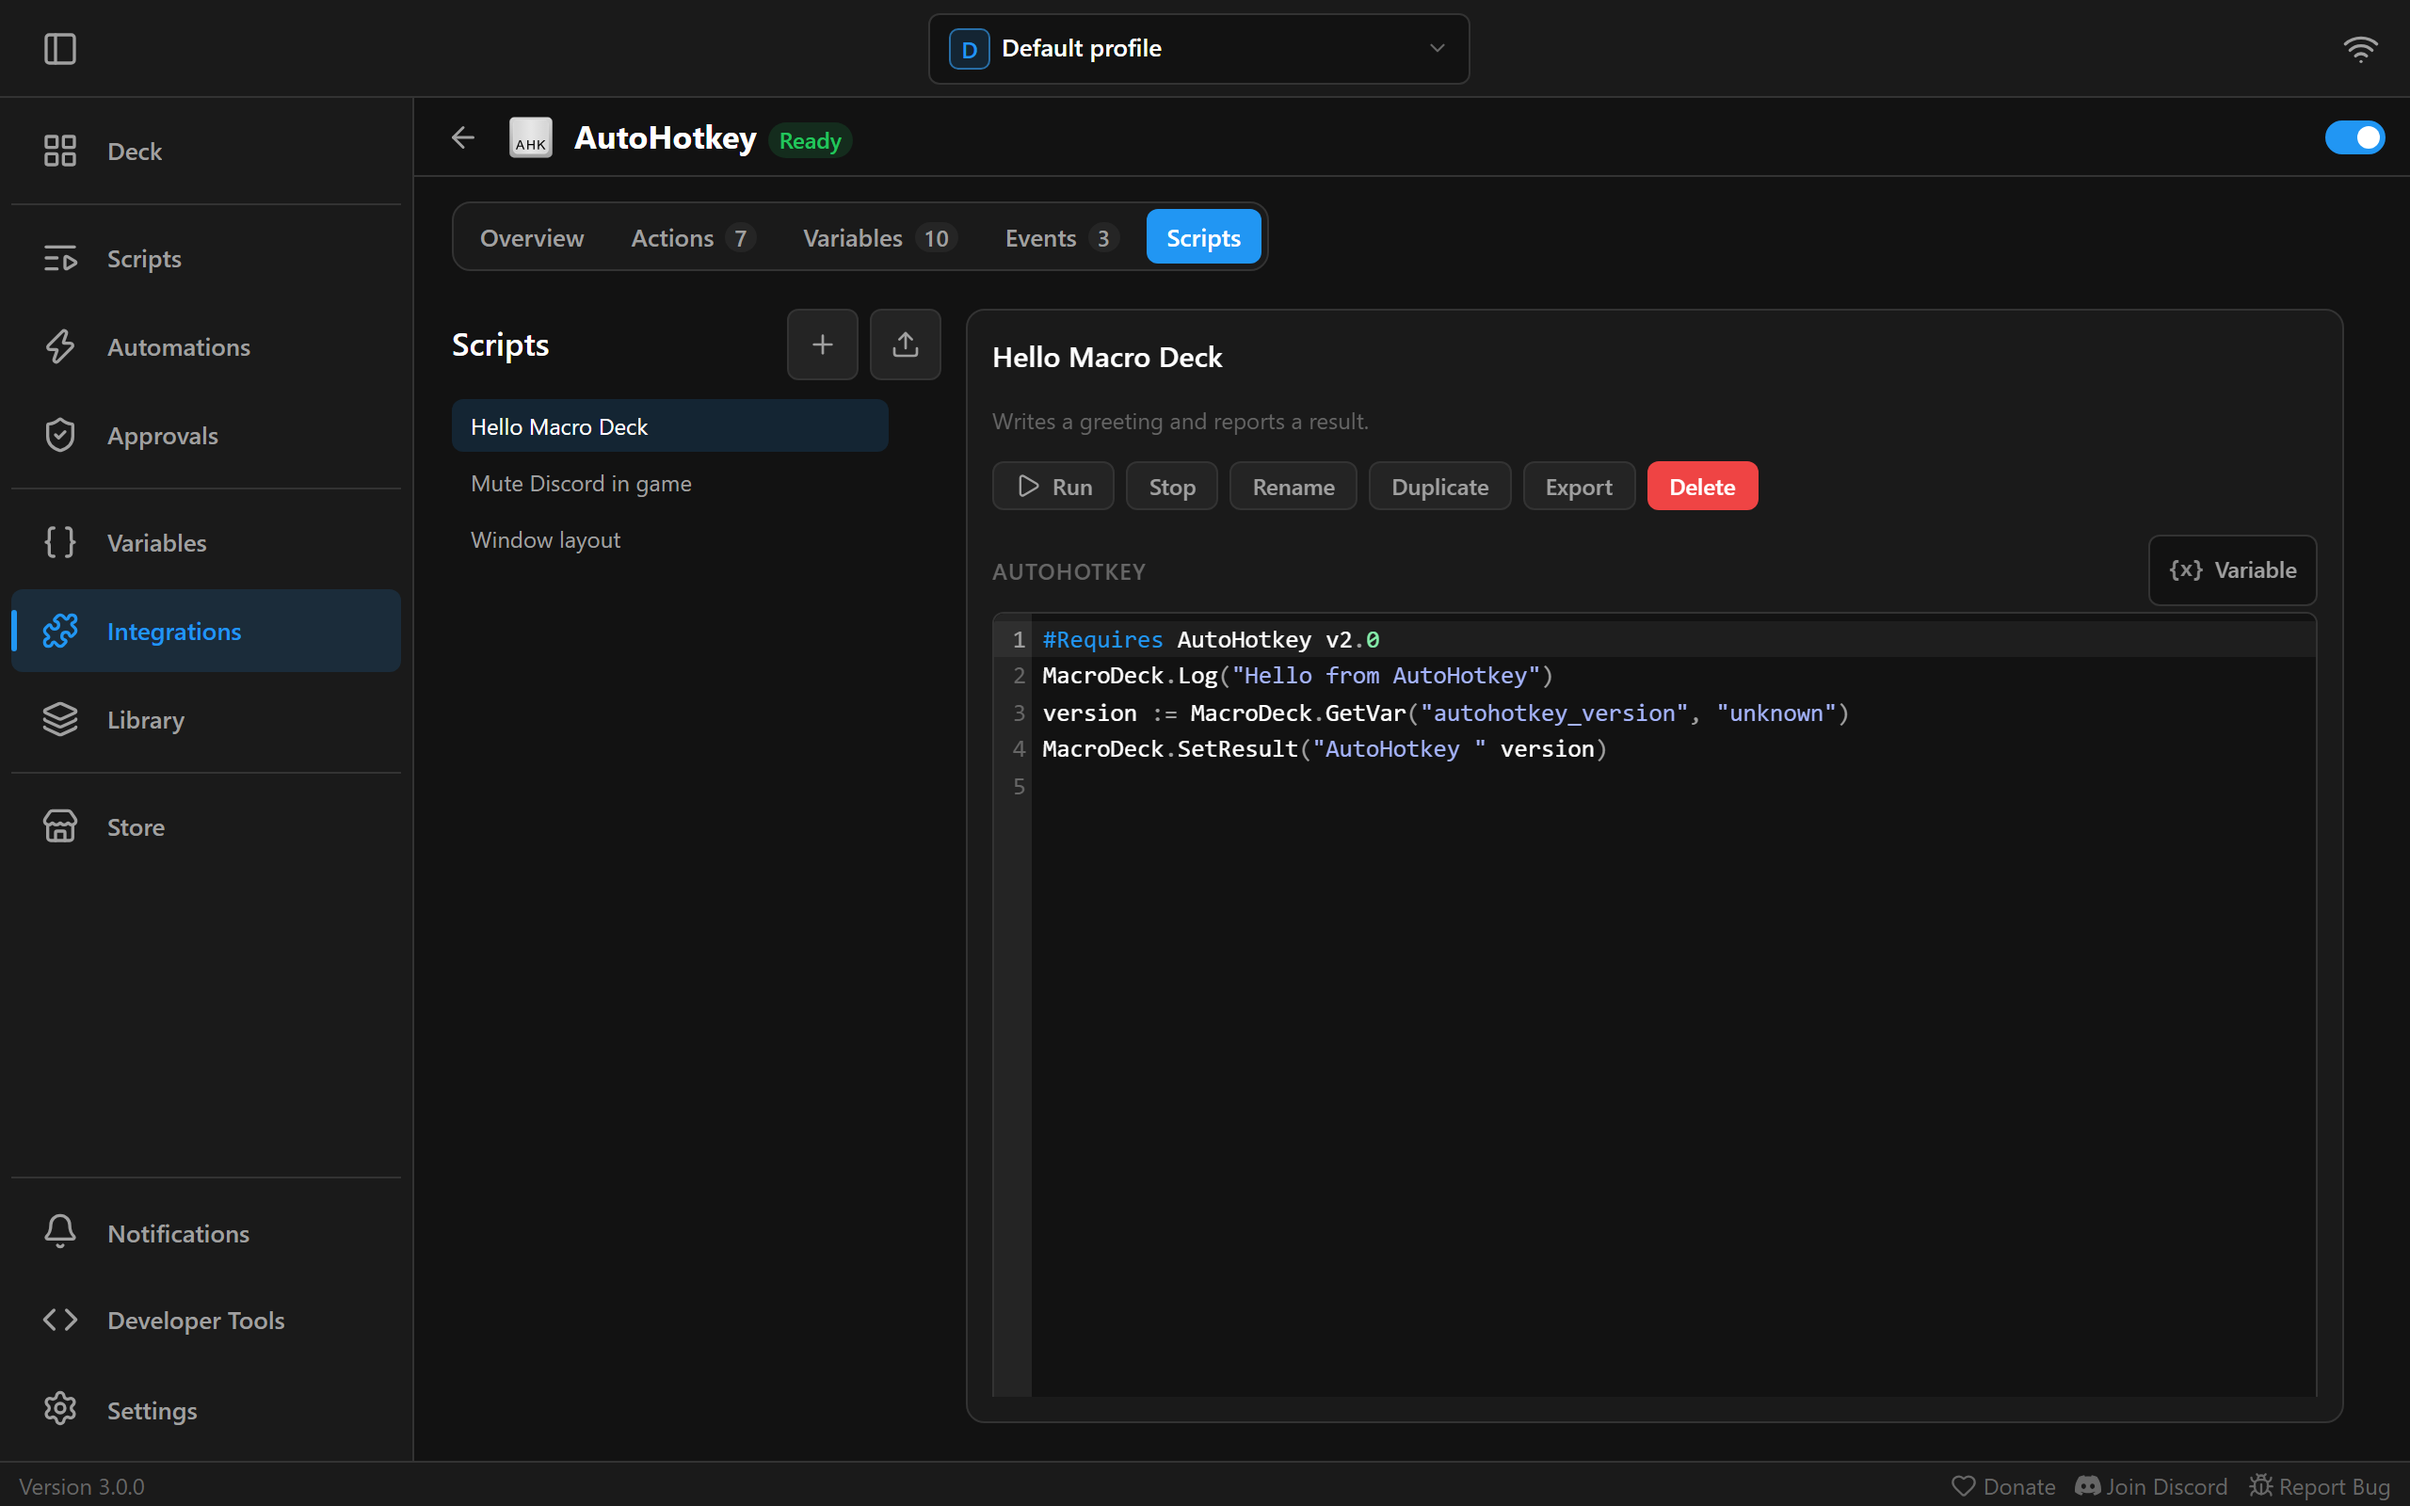
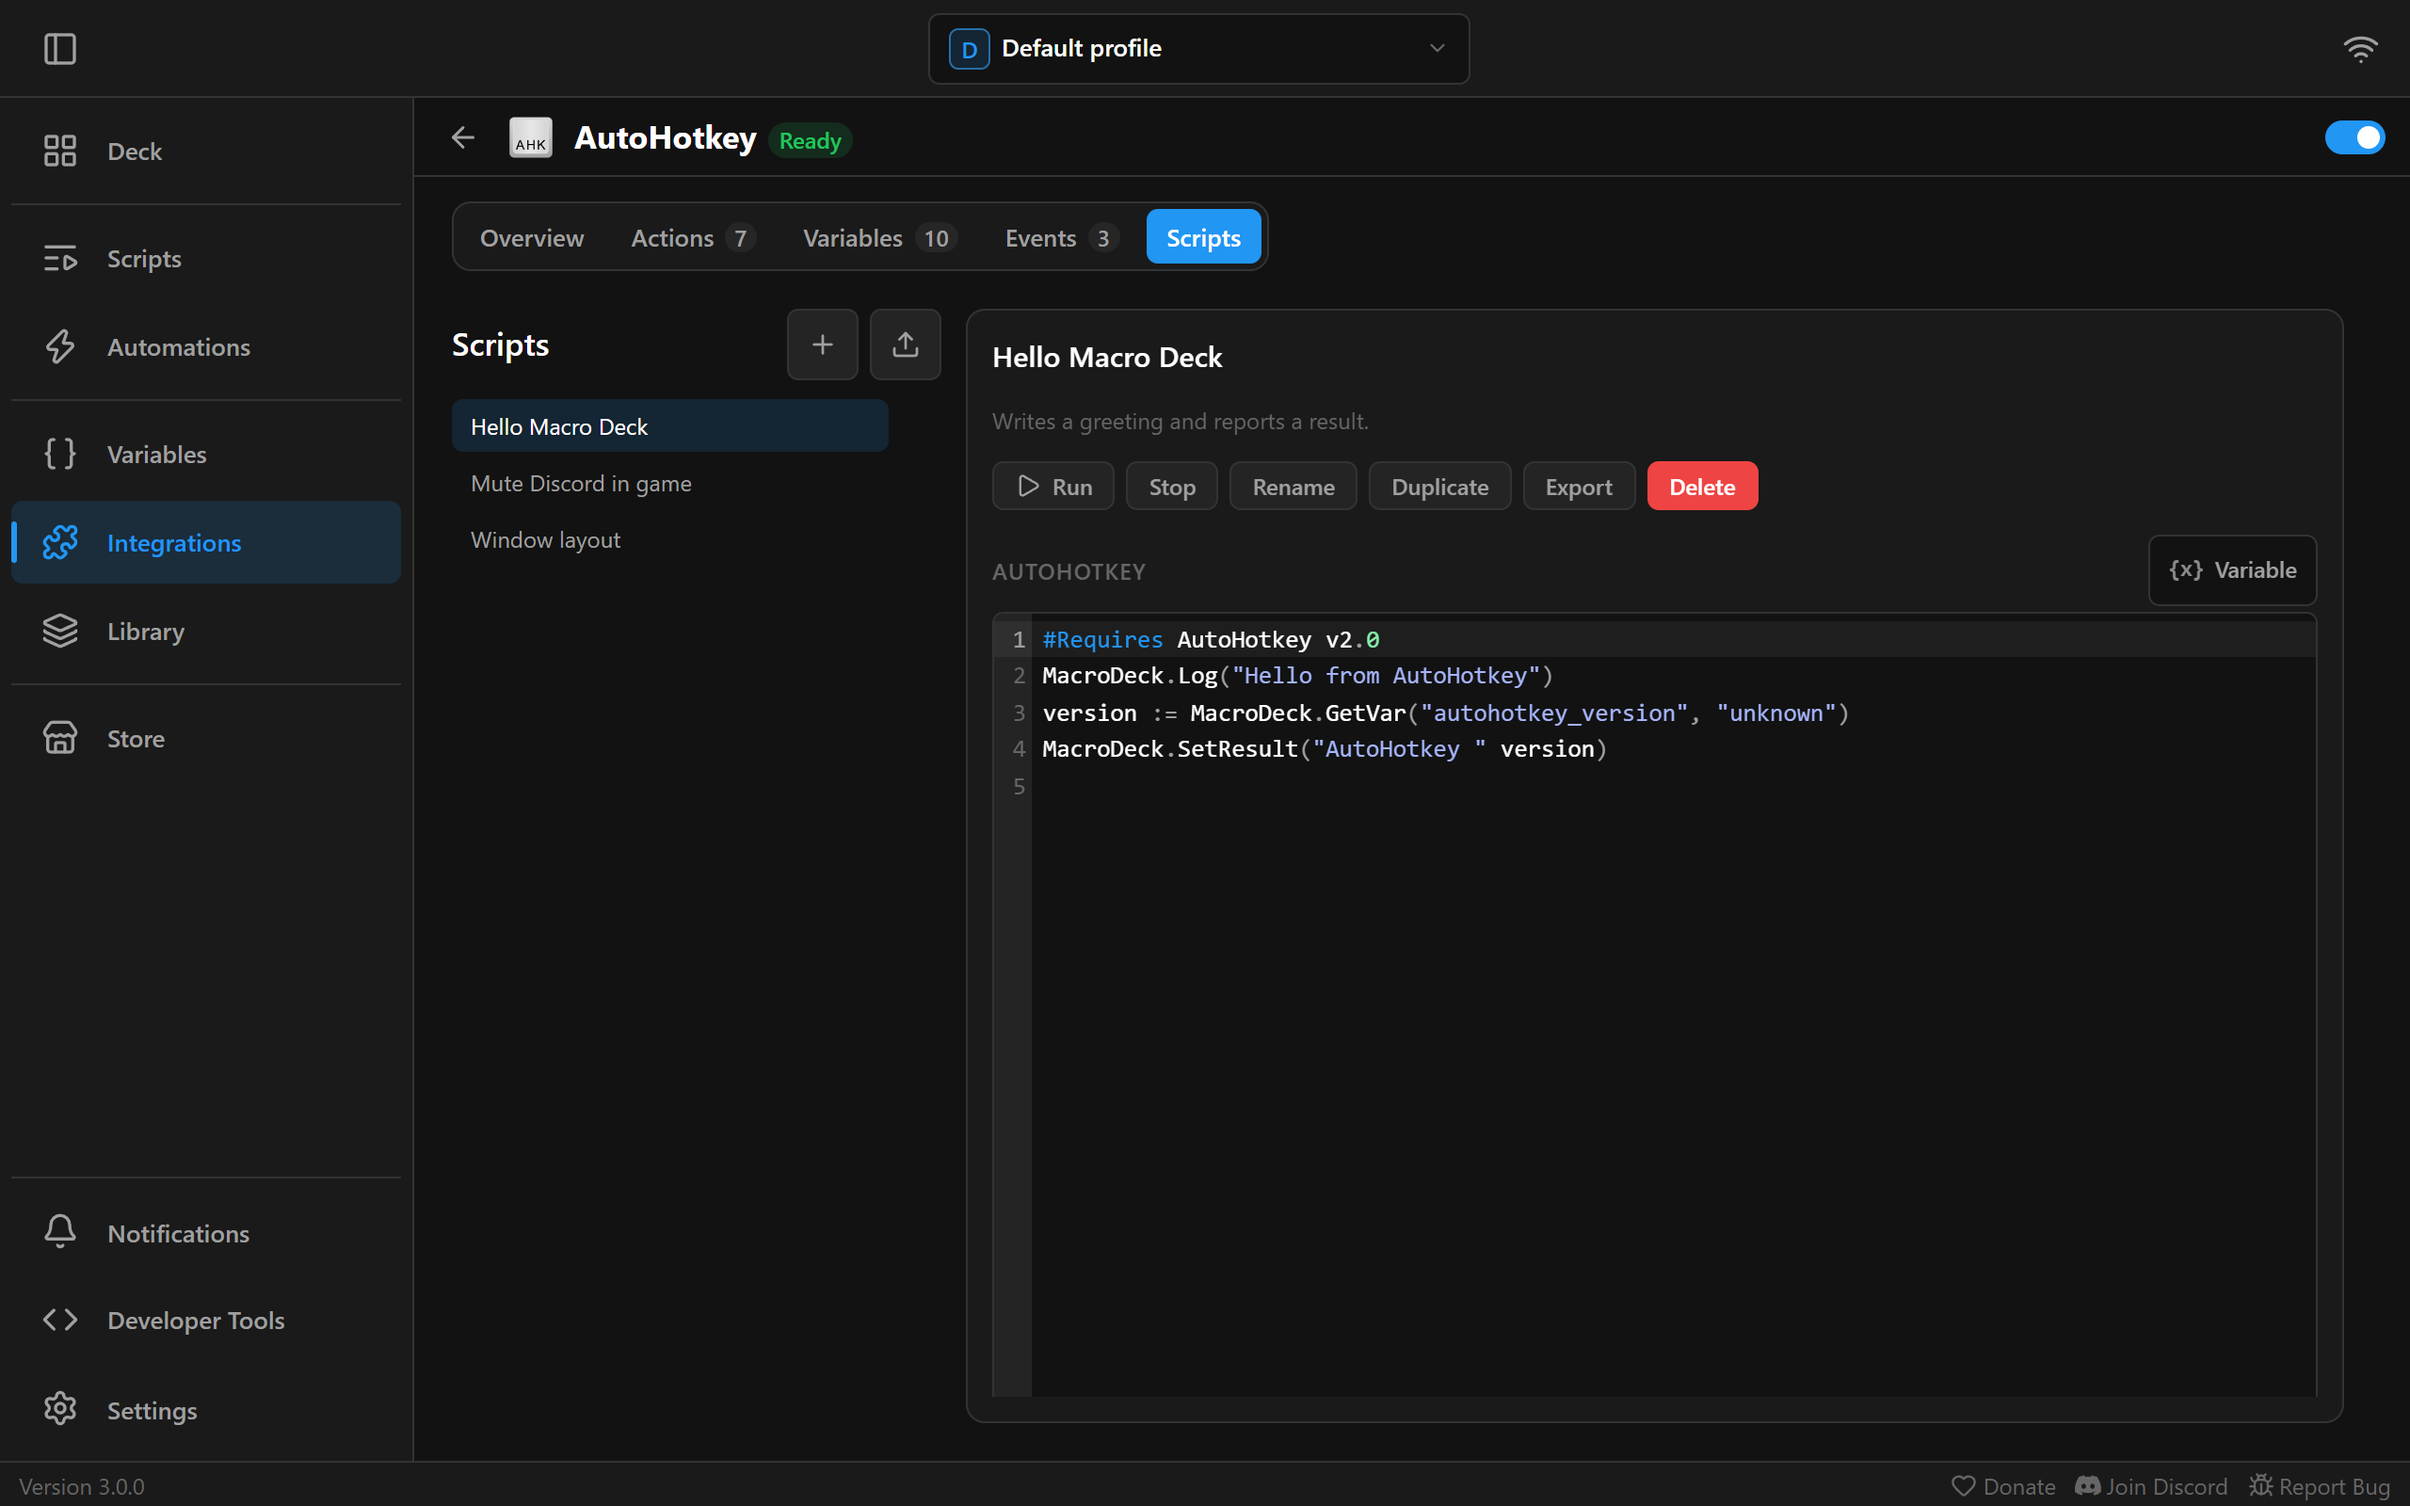
Hide Approvals in the sidebar while none wait

Changed region(s): [[0.0, 0.2812, 0.1875, 0.5], [0.0, 0.5312, 0.0625, 0.5625]]

diff --git a/ui/angular/projects/desktop-ui/src/app/services/navigation.service.ts b/ui/angular/projects/desktop-ui/src/app/services/navigation.service.ts
@@ -72,18 +72,16 @@ export class NavigationService {
       [
         { id: 'scripts', label: text(AppStrings.Nav.Scripts), icon: 'list-play', route: '/scripts' },
         { id: 'automations', label: text(AppStrings.Nav.Automations), icon: 'zap', route: '/automations' },
-        {
-          id: 'approvals',
-          label: text(AppStrings.Nav.SecretApprovals),
-          icon: 'shield-check',
-          route: '/approvals',
-          indicator: pendingApprovals > 0
-            ? pendingApprovals > MAX_INDICATOR_COUNT ? `${MAX_INDICATOR_COUNT}+` : `${pendingApprovals}`
-            : null,
-          indicatorLabel: pendingApprovals > 0
-            ? this.localization.translateKey(AppStrings.SecretApprovals.PendingCount, { count: pendingApprovals })
-            : null,
-        },
+        ...(pendingApprovals > 0
+          ? [{
+            id: 'approvals',
+            label: text(AppStrings.Nav.SecretApprovals),
+            icon: 'shield-check',
+            route: '/approvals',
+            indicator: pendingApprovals > MAX_INDICATOR_COUNT ? `${MAX_INDICATOR_COUNT}+` : `${pendingApprovals}`,
+            indicatorLabel: this.localization.translateKey(AppStrings.SecretApprovals.PendingCount, { count: pendingApprovals }),
+          }]
+          : []),
       ],
       [
         { id: 'variables', label: text(AppStrings.Nav.Variables), icon: 'braces-x', route: '/variables' },

diff --git a/ui/angular/projects/desktop-ui/src/app/services/navigation.service.spec.ts b/ui/angular/projects/desktop-ui/src/app/services/navigation.service.spec.ts
@@ -94,9 +94,14 @@ describe('NavigationService', () => {
   describe('approvals entry', () => {
     const approvalsItem = () => service.mainNavGroups().flat().find(item => item.id === 'approvals');
 
-    it('links to the approvals page without a count while nothing waits for approval', () => {
+    it('is not listed while nothing waits for approval', () => {
+      expect(approvalsItem()).toBeUndefined();
+    });
+
+    it('links to the approvals page while something waits for approval', () => {
+      secretApprovalsStub.count.set(1);
+
       expect(approvalsItem()?.route).toBe('/approvals');
-      expect(approvalsItem()?.indicator).toBeNull();
     });
 
     it('shows how many steps wait for approval, with a spoken label', () => {
@@ -106,13 +111,12 @@ describe('NavigationService', () => {
       expect(approvalsItem()?.indicatorLabel).toBe('3 steps waiting for approval');
     });
 
-    it('hides the count again once everything is approved', () => {
+    it('disappears again once everything is approved', () => {
       secretApprovalsStub.count.set(1);
       expect(approvalsItem()?.indicatorLabel).toBe('1 step waiting for approval');
 
       secretApprovalsStub.count.set(0);
-      expect(approvalsItem()?.indicator).toBeNull();
-      expect(approvalsItem()?.indicatorLabel).toBeNull();
+      expect(approvalsItem()).toBeUndefined();
     });
   });
 

diff --git a/ui/angular/projects/desktop-ui/src/app/components/shell/sidebar/sidebar.component.spec.ts b/ui/angular/projects/desktop-ui/src/app/components/shell/sidebar/sidebar.component.spec.ts
@@ -82,7 +82,7 @@ describe('NavigationService main groups', () => {
   it('groups the main navigation as designed', () => {
     expect(service.mainNavGroups().map(group => group.map(entry => entry.id))).toEqual([
       ['deck'],
-      ['scripts', 'automations', 'approvals'],
+      ['scripts', 'automations'],
       ['variables', 'integrations', 'library'],
       ['store'],
     ]);
@@ -190,7 +190,7 @@ describe('sidebar geometry', () => {
       const fixture = render(collapsed);
       const items = itemsOf(fixture);
 
-      expect(items.length).toBe(11);
+      expect(items.length).toBe(10);
       for (const item of items) {
         expect(item.getBoundingClientRect().height)
           .withContext(`"${item.textContent?.trim()}" collapsed: ${collapsed}`)

diff --git a/docs/src/content/docs/guide/concepts.md b/docs/src/content/docs/guide/concepts.md
@@ -837,7 +837,7 @@ Integrations connect Macro Deck to other apps: OBS, Home Assistant, Voicemeeter,
 [Discord Webhooks](/guide/discord-webhooks/), Google Calendar,
 Outlook Calendar, [email over IMAP](#connect-an-imap-account), [AdGuard Home](/guide/adguard-home/), [Steam](/guide/steam/) and more. Turn on the ones you use under **Integrations**.
 
-![The Integrations page, 5 of 28 enabled, listing ADB, AdGuard Home, Discord, Discord Webhooks, Email (IMAP), Google Calendar and Home Assistant](../../../assets/guide/integrations.png)
+![The Integrations page listing ADB, Discord, Email (IMAP), Google Calendar, Home Assistant, HTTP, Jellyfin and Keyboard, with HTTP, Jellyfin and Keyboard turned on](../../../assets/guide/integrations.png)
 
 Open an integration or plugin to see what it provides. **Capabilities** on its **Overview** lists everything
 it brings along with how many of each, for example 12 actions, 3 widgets or 2 batteries; choose a row to open

diff --git a/docs/src/content/docs/guide/tips.md b/docs/src/content/docs/guide/tips.md
@@ -186,8 +186,9 @@ to store a new random number in a variable each time the action runs.
 
 A step that uses a stored secret, such as a webhook URL or a token, only runs in the form you saved it in
 the app. If something else changed it, the step pauses, Macro Deck tells you in the notifications, and
-**Approvals** in the sidebar lists it with what changed. Check the values, then choose **Approve**. Until
-then the step is skipped and the rest of the flow still runs.
+**Approvals** appears in the sidebar and lists it with what changed. Check the values, then choose
+**Approve**. Until then the step is skipped and the rest of the flow still runs. Once nothing is waiting,
+**Approvals** leaves the sidebar again.
 
 ## Share and back up
 
